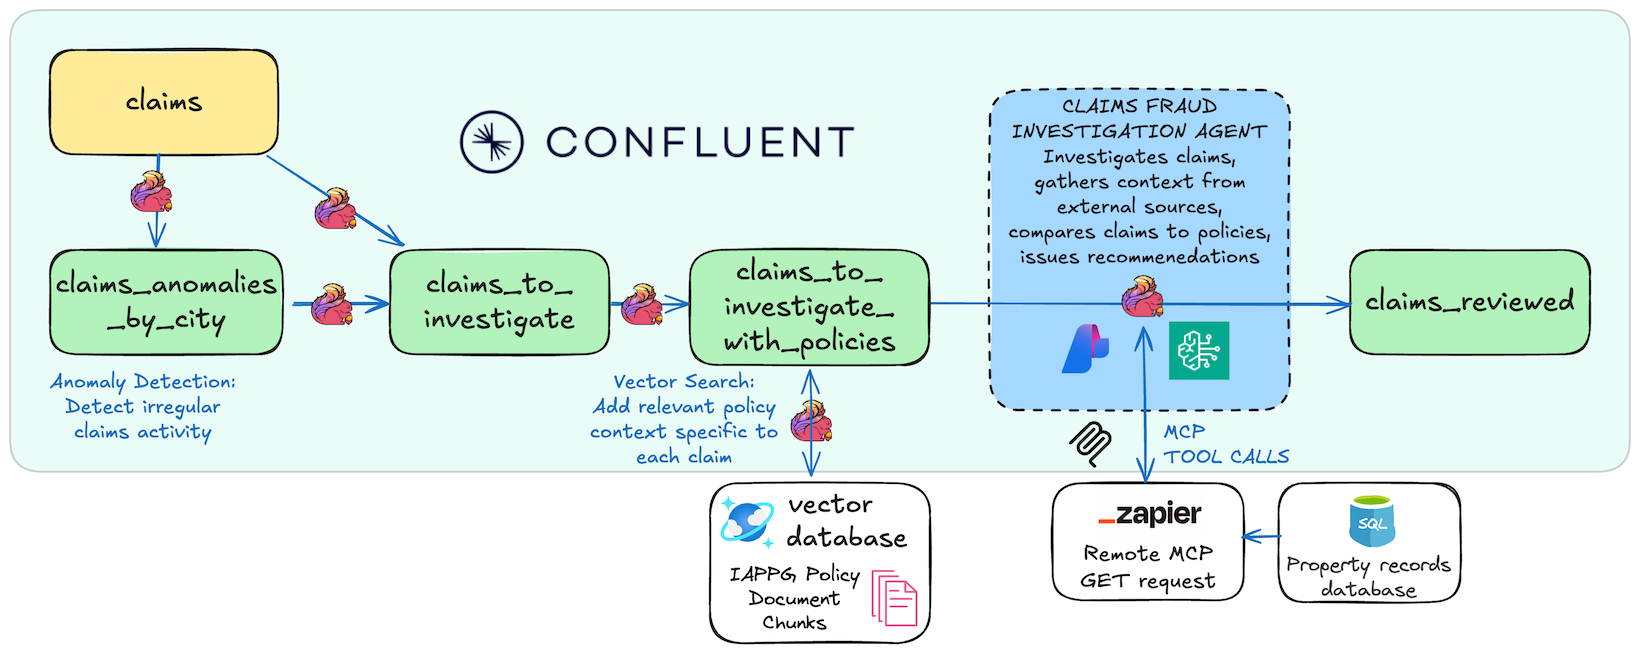
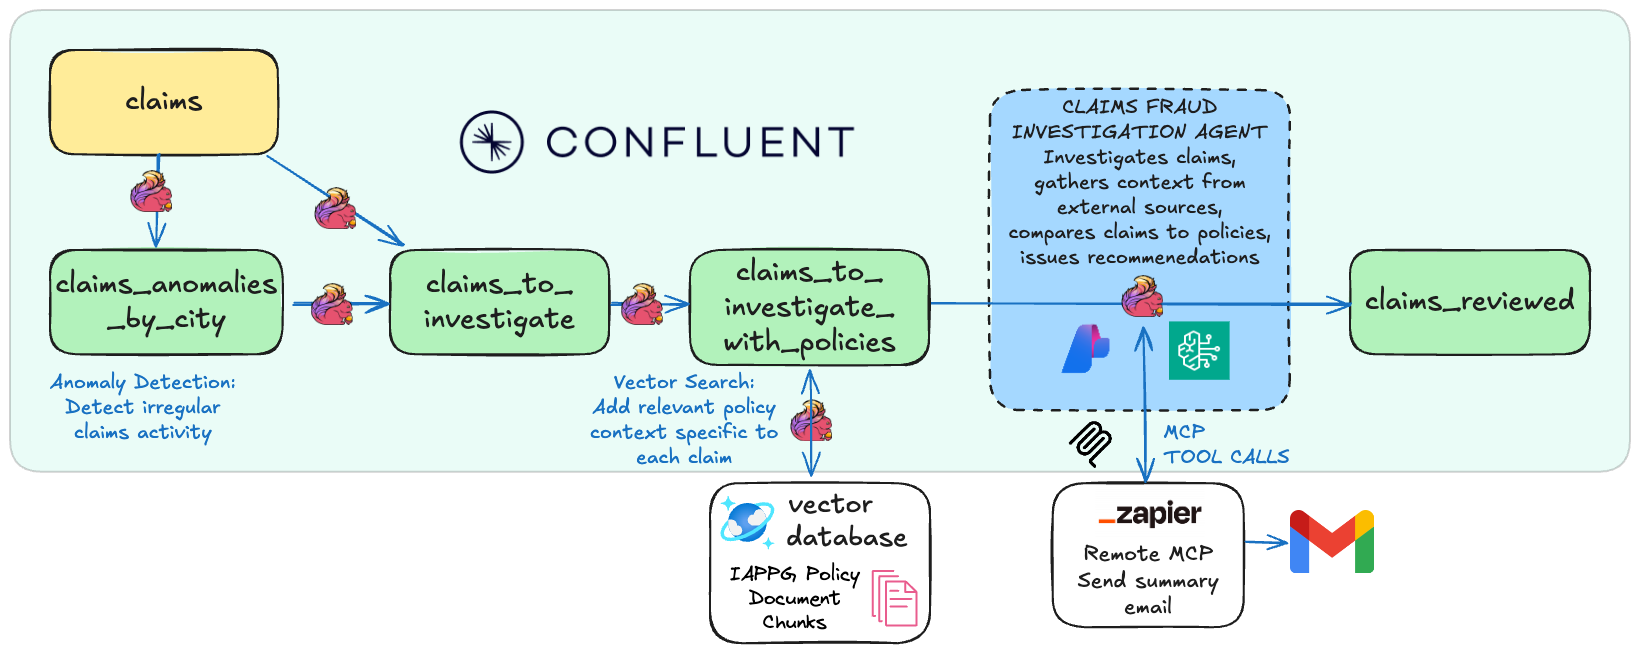
Update Lab4-Walkthrough.md text, screenshots, and arch diagram.

diff --git a/LAB4-Walkthrough.md b/LAB4-Walkthrough.md
@@ -4,18 +4,6 @@
 
 This demo showcases an intelligent, real-time fraud detection system that autonomously identifies suspicious claim patterns in FEMA disaster assistance applications. Built on [Confluent Intelligence](https://www.confluent.io/product/confluent-intelligence/), the system combines stream processing, anomaly detection, and AI-powered analysis to detect organized fraud rings and policy violations in real-time.
 
-## What This Streaming Data Pipeline Does
-
-The system continuously monitors FEMA disaster assistance claims in real time and performs automated fraud detection:
-
-1. **Anomaly Detection** – Detects unusual spikes in claim amounts across different cities using Flink's [ML_DETECT_ANOMALIES function](https://docs.confluent.io/cloud/current/ai/builtin-functions/detect-anomalies.html).
-2. **Pattern Recognition** – Identifies organized fraud rings through shared accounts, phone numbers, and timeline violations.
-3. **Contextual Understanding** – Analyzes claim narratives using LLMs to detect vague descriptions, exaggerated amounts, and suspicious patterns.
-
-All of this runs in real time on **Confluent Cloud for Apache Flink**, with no external orchestration required.
-
----
-
 ## Prerequisites
 
 **Installation instructions:**
@@ -30,7 +18,7 @@ winget install astral-sh.uv Git.Git Hashicorp.Terraform ConfluentInc.Confluent-C
 ```
 
 Once software is installed, you'll need:
-- **LLM Access:** AWS Bedrock API keys **OR** Azure OpenAI endpoint + API key
+- **LLM API keys:** AWS Bedrock API keys **OR** Azure OpenAI endpoint + API key
   - **Easy key creation:** Run `uv run api-keys create` to quickly auto-generate credentials
 
 ---
@@ -63,22 +51,23 @@ Select **"Lab 4: FEMA Fraud Detection"** from the menu.
 
 ### Data Generation
 
-The Lab4 Terraform automatically publishes ~36,000 synthetic claims across 8 Florida cities over a 14-day period following Hurricane Helene.
+The Lab4 Terraform automatically publishes ~36,000 synthetic claims across 8 Florida cities. The hurricane claims begin 14 days before the current date (the day of the hurricane), and continue through today.
 
 The data includes:
 - **`claims`** table – synthetic disaster assistance claims with applicant info, damage assessments, claim amounts, and detailed narratives
 
 **Data Pattern:**
 - **7 cities** show normal exponential decay (claims decrease over time)
-- **1 city (Naples)** shows an anomalous spike in the final 2 days (Days 13-14), containing specifically designed claims with fraud indicators, policy violations, and legitimate claims for testing
+- **1 city (Naples)** shows an anomalous spike in the final 2 days (Days 13-14), containing a mix of claims: some with fraud indicators, others with policy violations, and others still with fully legitimate claims.
 
 ---
 
-### Visualize the Anomaly
+### 0. Visualize the Anomaly
 
 Before running anomaly detection, you can view the raw claim patterns for yourself by running these two queries in the [Flink UI](https://confluent.cloud/go/flink):
 
 **All other regions (normal decay):**
+
 ```sql
 SELECT
     window_start,
@@ -475,7 +464,7 @@ The result is a deep, autonomous investigation of every flagged claim resulting 
 ### No anomalies detected?
 
 **Check:**
-1. Data publishing completed: `uv run lab4_datagen`
+1. Re-publish : `uv run lab4_datagen`
 2. Claims published to topic: `SELECT COUNT(*) FROM claims;` (should be ~36,000)
 3. Wait for baseline: ARIMA needs 16 windows (2 days with 3-hour windows) before detecting
 
@@ -500,7 +489,7 @@ The ARIMA parameters are tuned to detect exactly 1 anomaly (Naples, Day 3).
 
 If you see different results:
 - **0 anomalies:** Decrease `confidencePercentage` to 90.0
-- **>1 anomalies:** Increase `confidencePercentage` to 99.0
+- **>3 anomalies:** Increase `confidencePercentage` to 99.0
 - **Wrong timing:** Re-publish data: `uv run lab4_datagen`
 
 </details>
